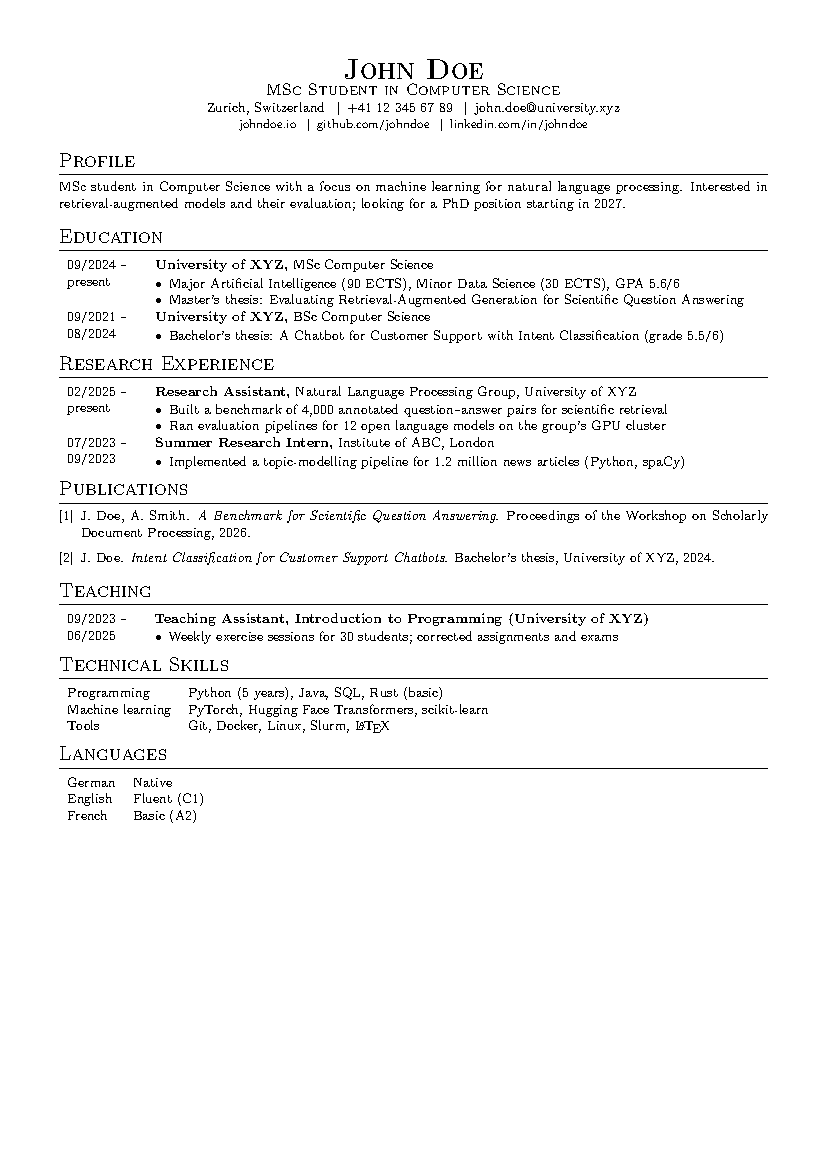
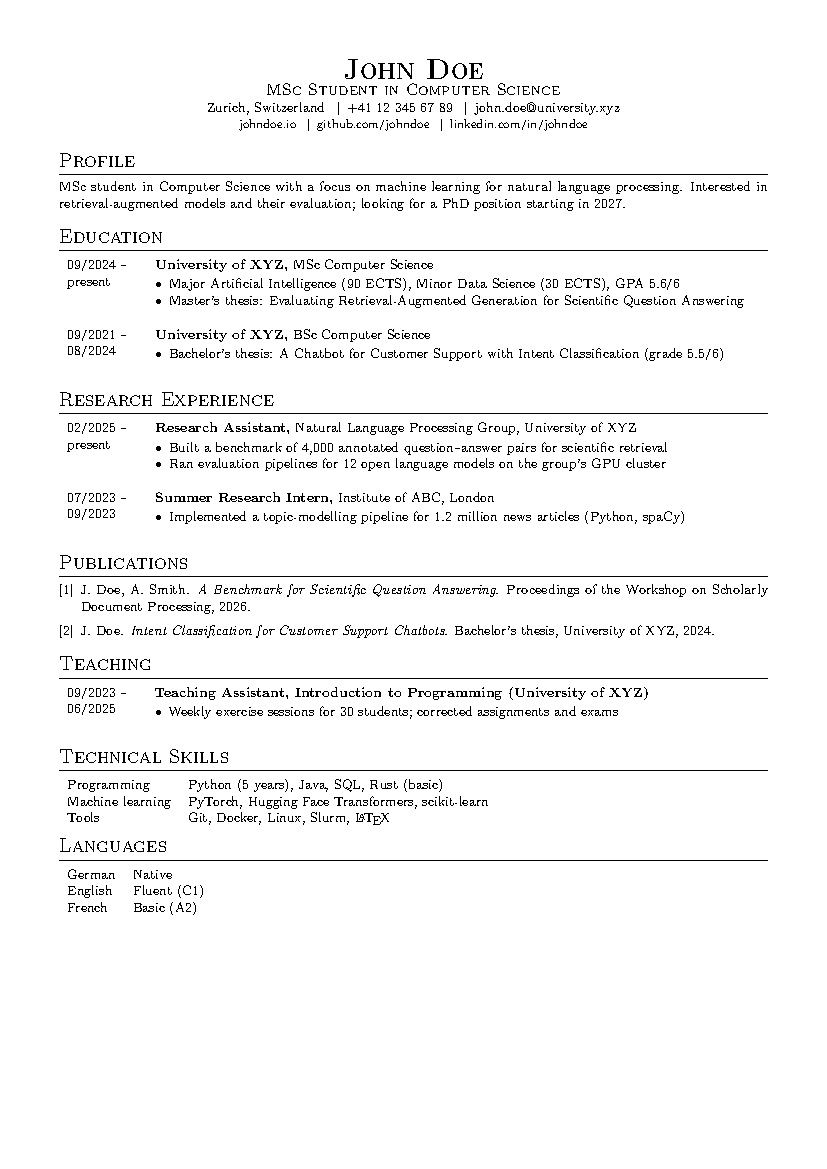
Keep entry spacing the same across TeX Live versions
Entries ended in p columns, which got an extra blank line up to TeX Live 2023 and none
from 2024 on, so the same CV looked different on Overleaf and locally. Both styles now
use minipages and an explicit \cvitemgap that matches the 2023 look. Fall back to
sourcesanspro, the package name before TeX Live 2024; cv.cls failed there before.

diff --git a/README.md b/README.md
@@ -26,7 +26,7 @@
 
 > [!NOTE]
 > Created in 2023 and updated in 2026 (v2). v2.1 adds the two styles, the `\cvheader` command, wider margins and
-> machine-readable text. Existing v1 CVs still compile: `\centeredheader` and all entry commands keep their
+> machine-readable text; v2.1.1 gives the same spacing on TeX Live 2023 (e.g. older Overleaf) to 2026. Existing v1 CVs still compile: `\centeredheader` and all entry commands keep their
 > signatures.
 
 ## Contents
@@ -162,6 +162,7 @@ docker run --rm -v "$PWD":/w -w /w texlive/texlive:latest latexmk
 | Font size | Class option, e.g. `\documentclass[corporate, 11pt]{cv}` |
 | Margins | `\geometry{margin=1.2cm}` in the preamble |
 | Accent color | `\definecolor{cvaccent}{RGB}{0, 102, 102}` in the preamble |
+| Space between entries | `\setlength{\cvitemgap}{8pt}` in the preamble |
 | Date column width (academic) | `\setlength{\cvdatewidth}{2cm}` in the preamble |
 | Skill label width (corporate) | `\setlength{\cvlabelwidth}{3cm}` in the preamble |
 | Heading style | `\titleformat{\section}` in [`cv.cls`](cv.cls) |

diff --git a/TODO.md b/TODO.md
@@ -15,6 +15,7 @@ Open tasks for the template.
 - [x] Set PDF title and author from `\title` and `\author`
 - [x] v2.1: `academic` and `corporate` styles, `\cvheader` with location and profile links, 1.5 cm margins
 - [x] v2.1: machine-readable text under pdfLaTeX (real spaces, Unicode mappings)
+- [x] v2.1.1: same spacing on TeX Live 2023–2026 (minipages, `\cvitemgap`); `sourcesanspro` fallback for TeX Live 2023
 - [ ] XeLaTeX/LuaLaTeX with Source Sans: parsers lose the word spaces; pdfLaTeX is the recommended engine
 - [ ] Optional: bold small capitals for XeLaTeX/LuaLaTeX (needs a font that has them, e.g. New Computer Modern)
 - [ ] Optional: icons for phone, email and website (e.g. `fontawesome5`)
